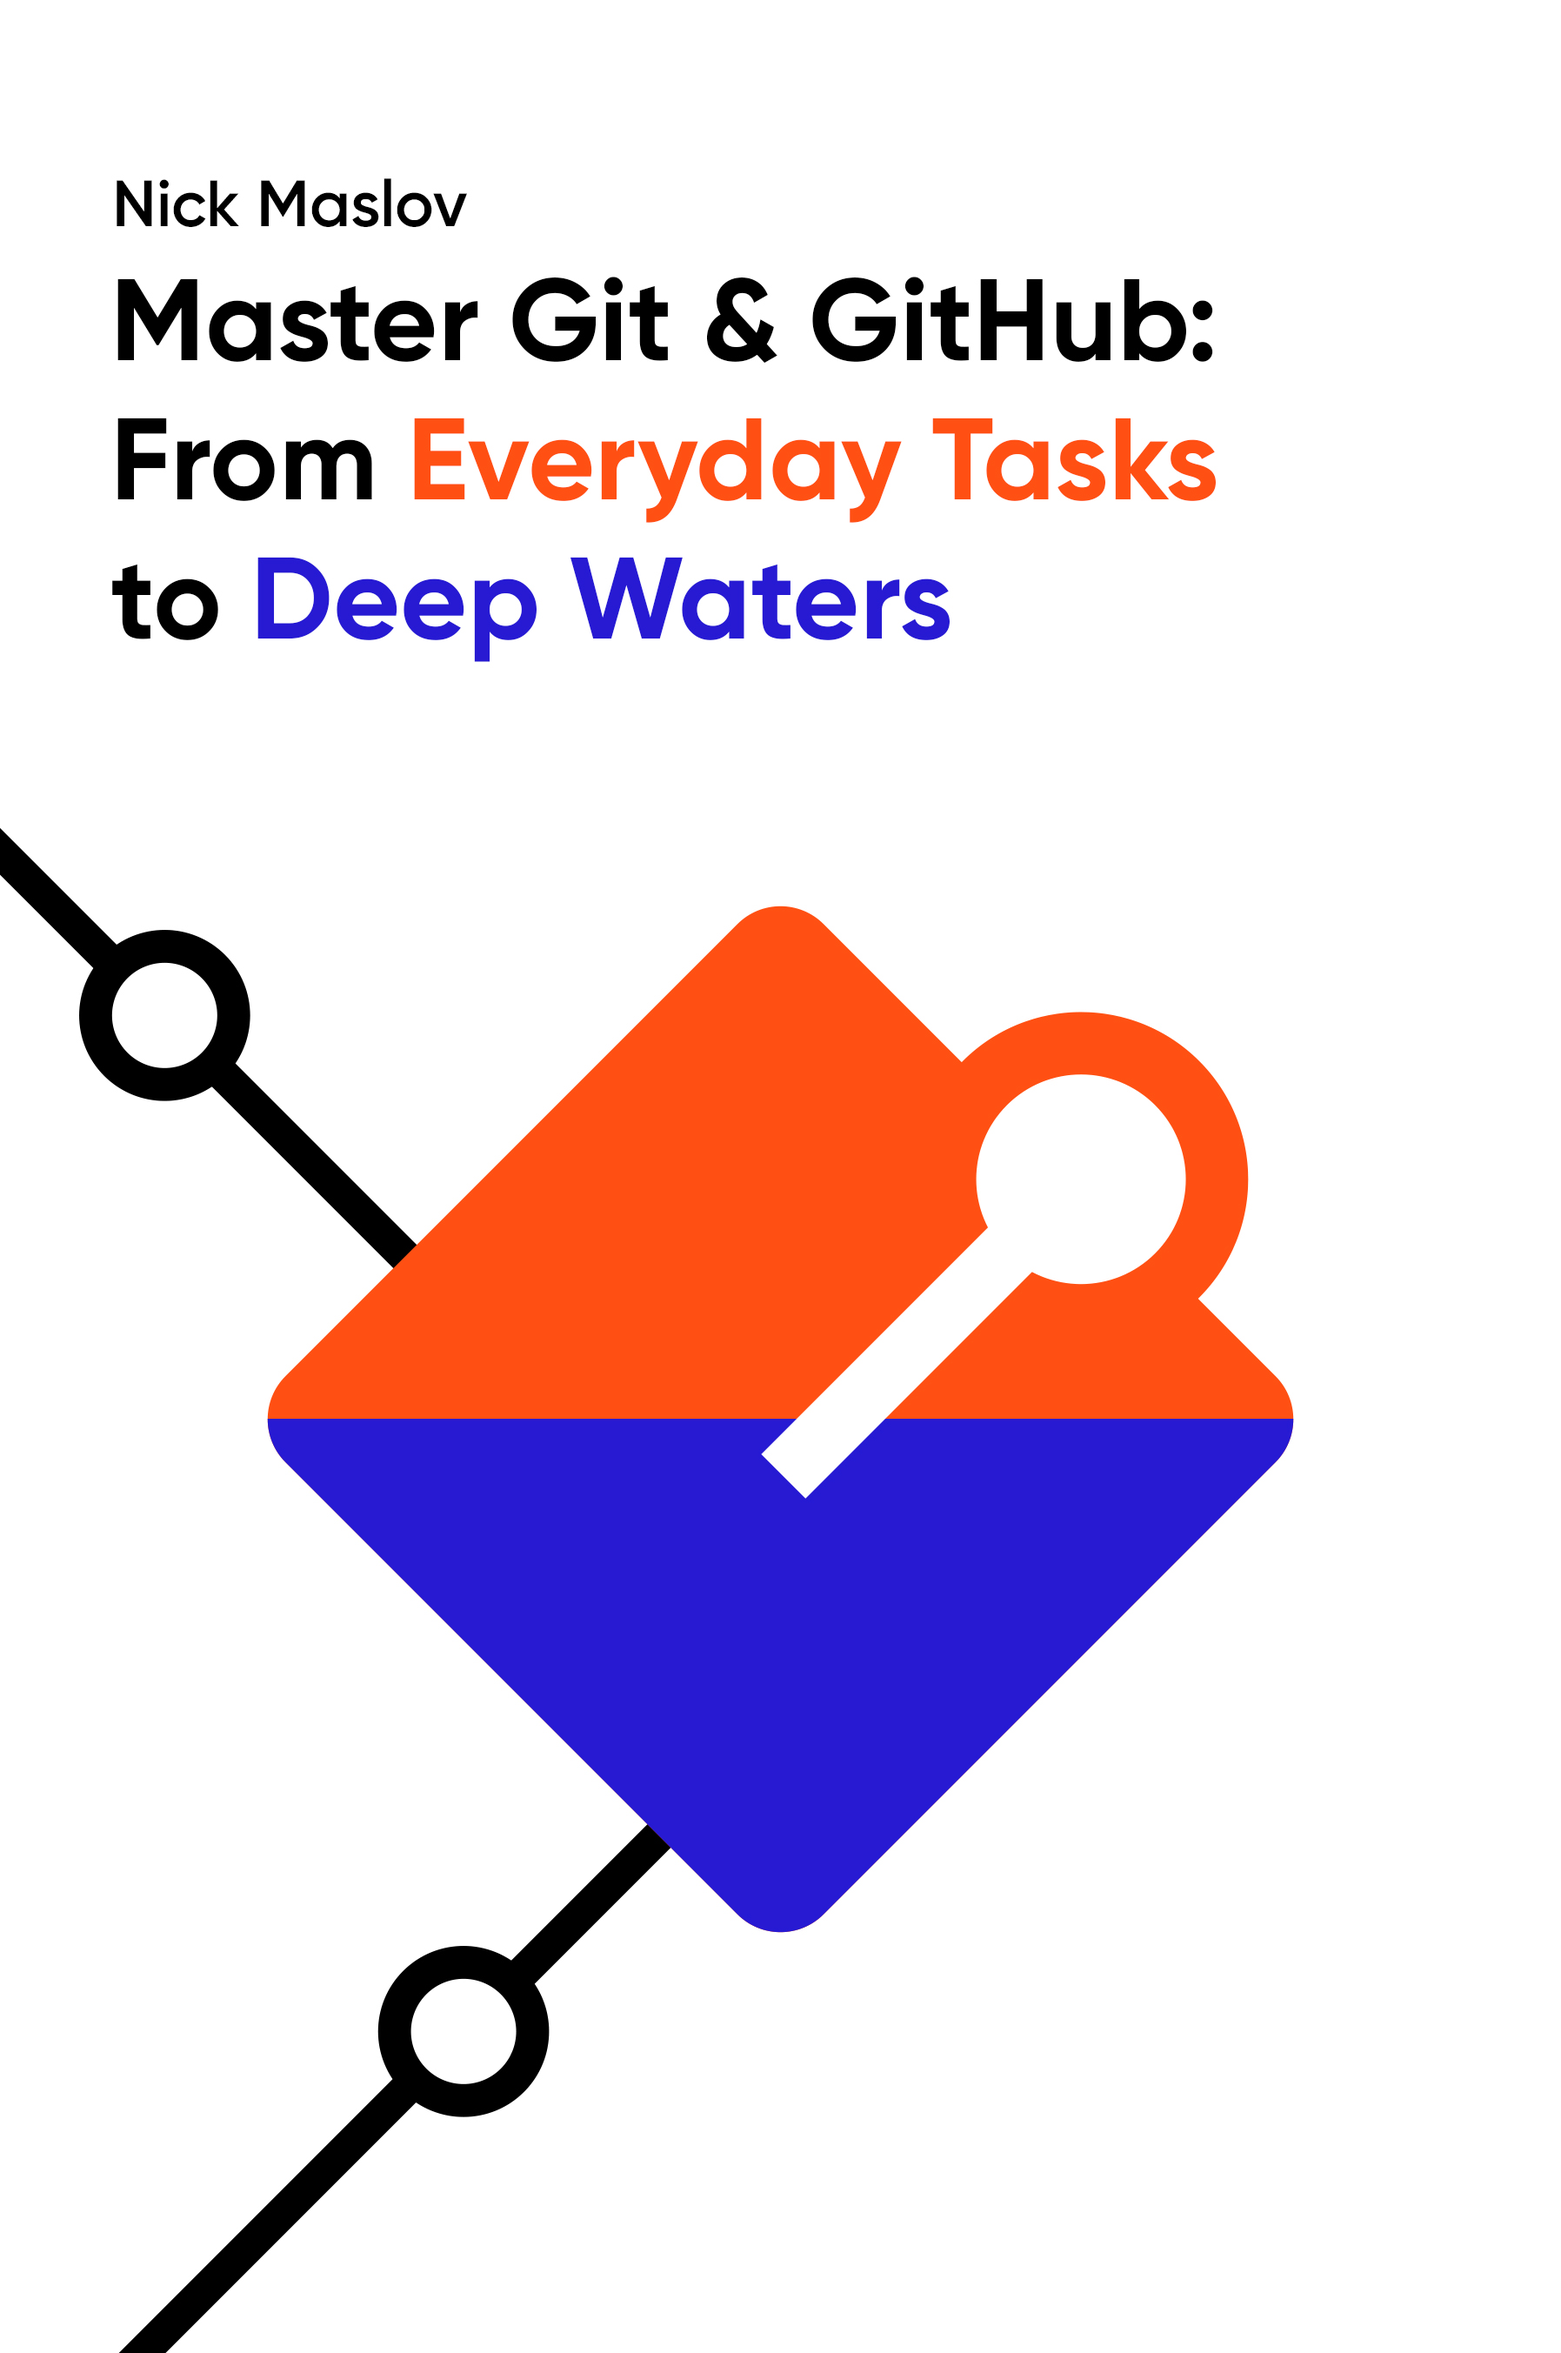
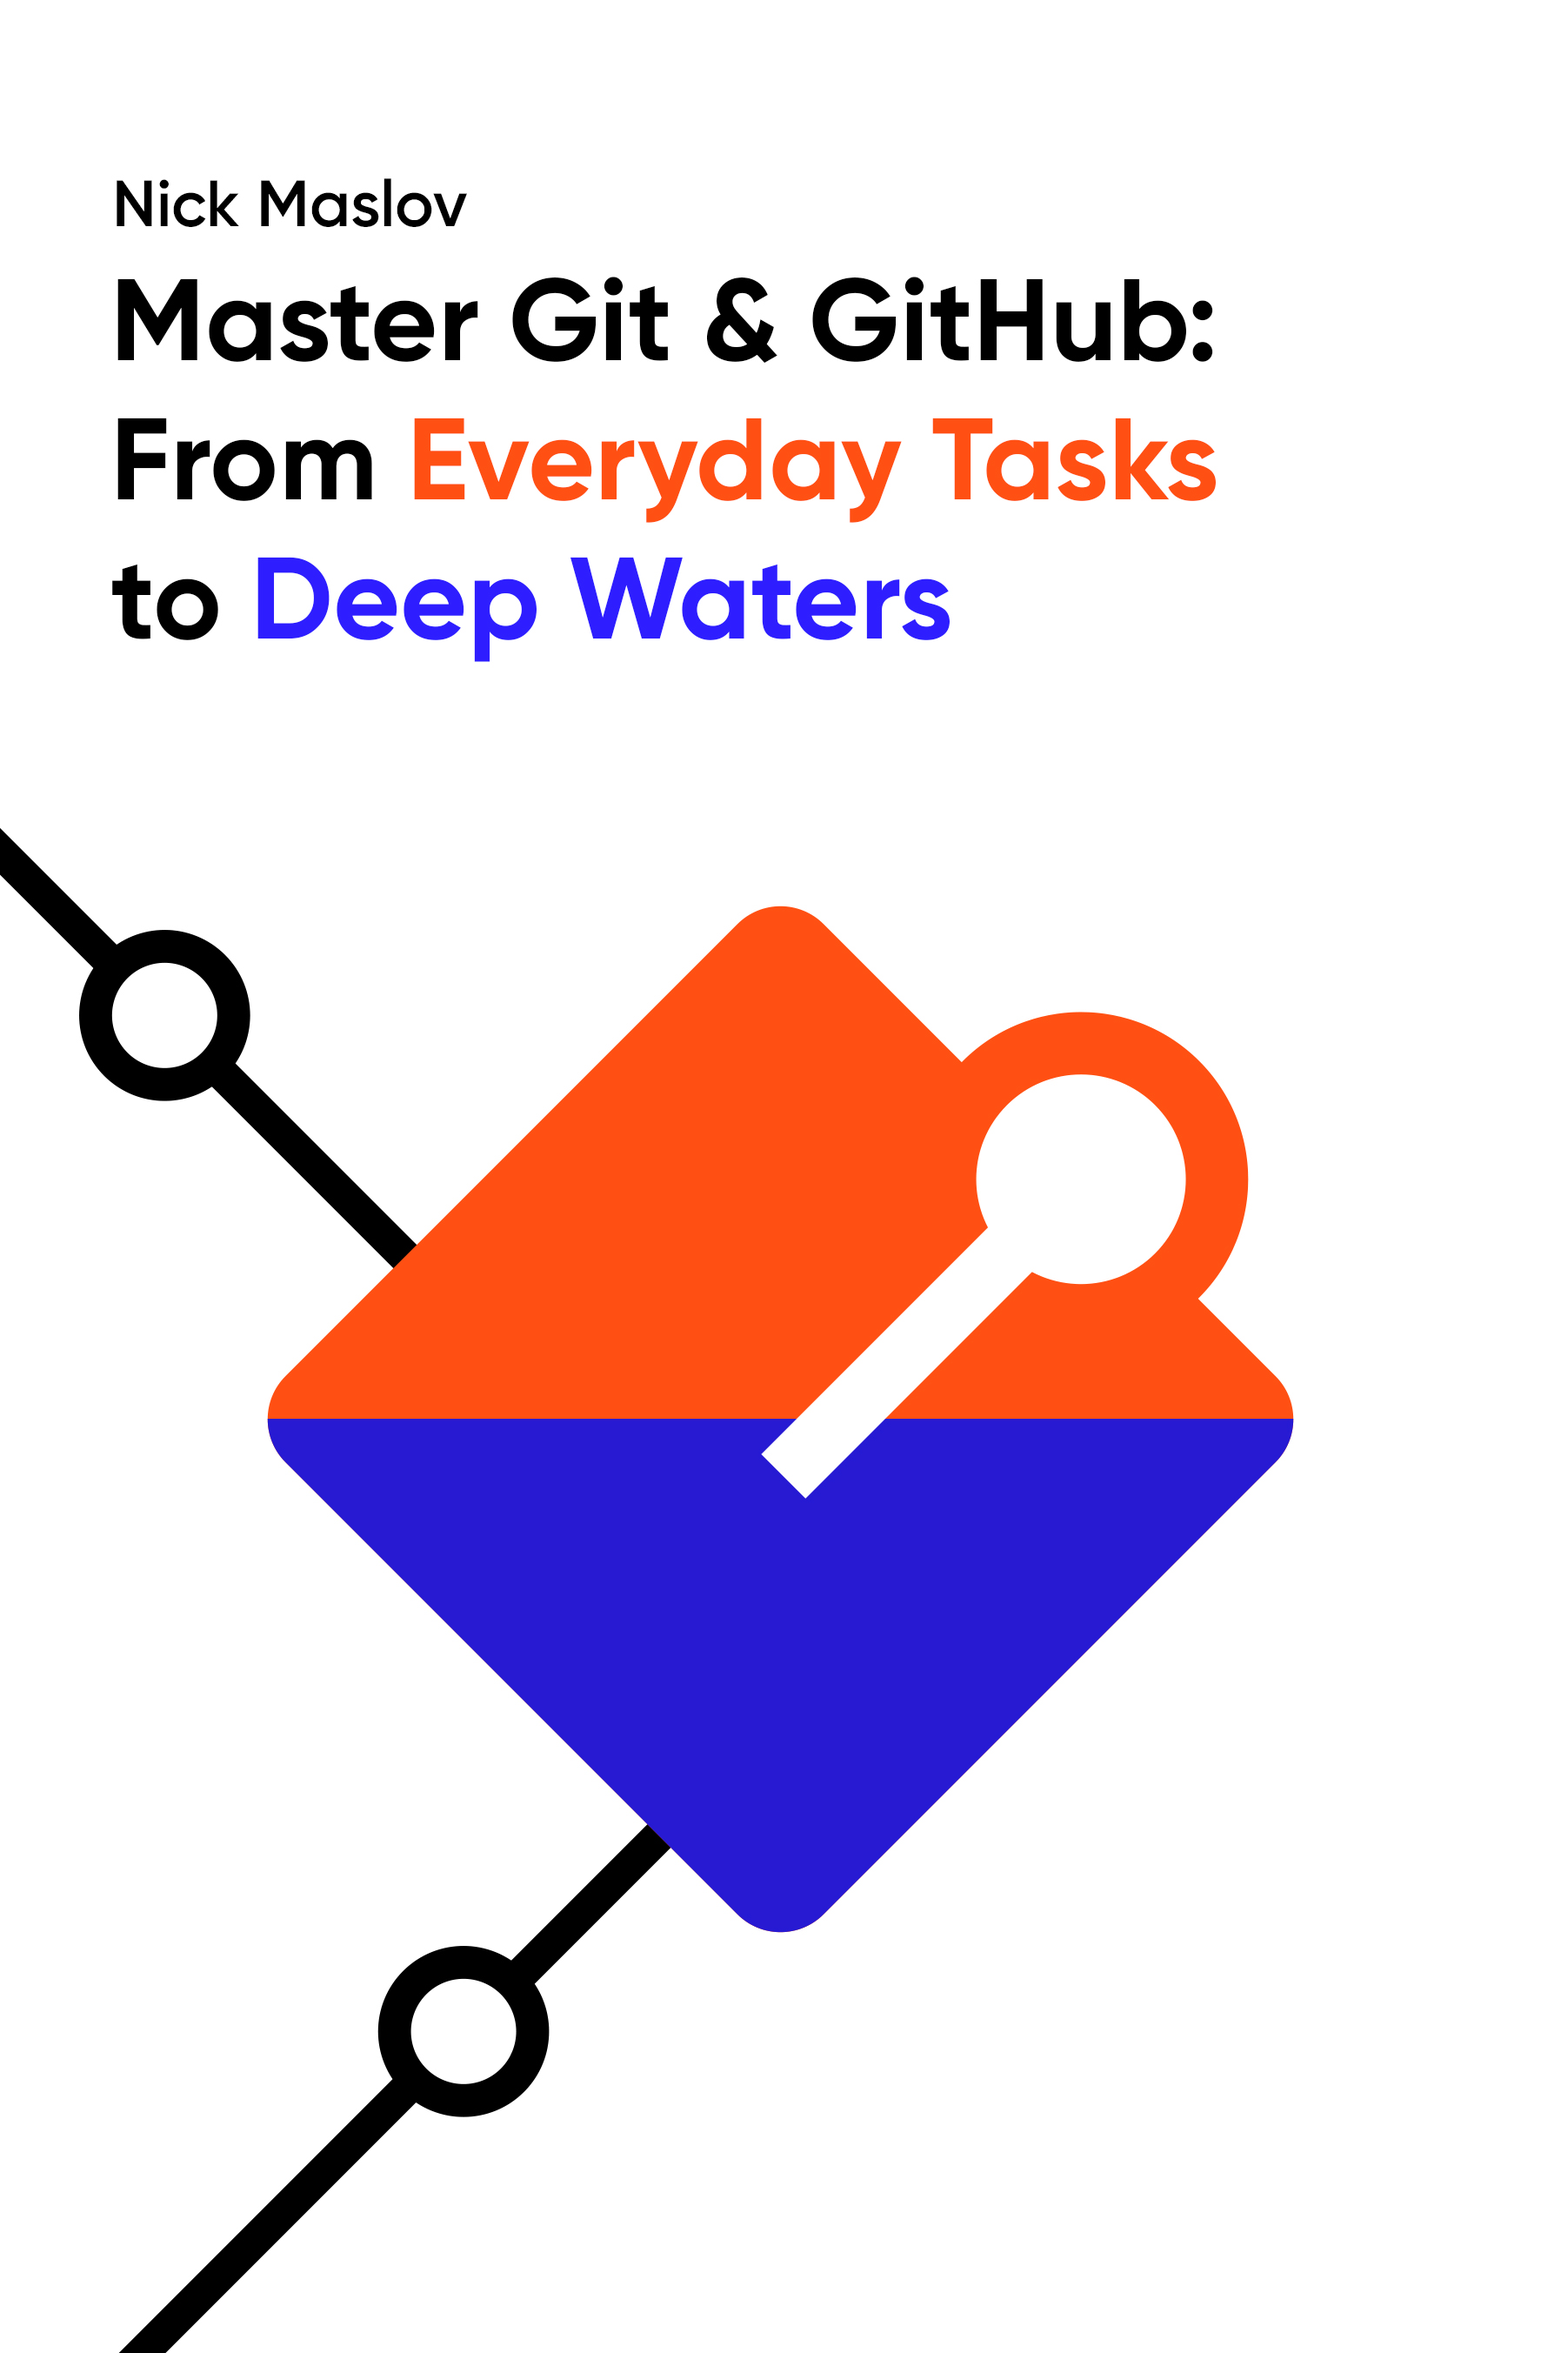
improve blue color

Changed region(s): [[0.3744, 0.2174, 0.624, 0.2795], [0.156, 0.2174, 0.3432, 0.2795]]

diff --git a/components/modules/master-git-and-github-book/pages/Page3.tsx b/components/modules/master-git-and-github-book/pages/Page3.tsx
@@ -396,7 +396,7 @@ function Page3(): ReactElement {
             toggleLettersAnimation('stop', timeline.scrollTrigger?.direction),
           '5',
         );
-        timeline.set(introSectionTextRef.current, { color: '#271AD3' }, '5');
+        timeline.set(introSectionTextRef.current, { color: '#473AFF' }, '5');
         timeline.set(
           animateLettersCommitCircleRef.current,
           { boxShadow: 'none' },
@@ -579,10 +579,10 @@ function Page3(): ReactElement {
           () => toggleSpineAnimation('stop', timeline.scrollTrigger?.direction),
           '10',
         );
-        timeline.set(introSectionTextRef.current, { color: '#271AD3' }, '10');
+        timeline.set(introSectionTextRef.current, { color: '#473AFF' }, '10');
         timeline.set(
           introSectionSpineRef.current,
-          { backgroundColor: '#271AD3' },
+          { backgroundColor: '#473AFF' },
           '10',
         );
         timeline.set(addProductsSectionCommitRef.current, { opacity: 1 }, '10');
@@ -823,7 +823,7 @@ function Page3(): ReactElement {
                     <p
                       className='absolute  bottom-[5.2vw]  left-[0.5vw]  origin-top-left   rotate-[-25deg]
                               text-xl  leading-normal  text-blue  max-md:text-[3vw]  h-md:bottom-[4.5vh]
-                              h-md:left-[0.5vh]  h-md:text-[3vh]  dark:text-[#3D32D1]'
+                              h-md:left-[0.5vh]  h-md:text-[3vh]  dark:text-[#473AFF]'
                     >
                       Initialize&nbsp;the&nbsp;project
                     </p>
@@ -841,7 +841,7 @@ function Page3(): ReactElement {
                       <p
                         className='absolute  bottom-[5.2vw]  left-[0.5vw]  origin-top-left  rotate-[-25deg]
                                 text-xl  leading-normal  text-blue  max-md:text-[3vw]
-                                h-md:bottom-[4.5vh]  h-md:left-[0.5vh]  h-md:text-[3vh]  dark:text-[#3D32D1]'
+                                h-md:bottom-[4.5vh]  h-md:left-[0.5vh]  h-md:text-[3vh]  dark:text-[#473AFF]'
                       >
                         Add&nbsp;the&nbsp;header
                       </p>
@@ -869,7 +869,7 @@ function Page3(): ReactElement {
                         className='absolute  bottom-[5.2vw]  left-[0.5vw]  origin-top-left  rotate-[-25deg]
                                 text-xl  leading-normal  text-blue  max-md:text-[3vw]
                                 h-md:bottom-[4.5vh]  h-md:left-[0.5vh]  
-                                h-md:text-[3vh]  dark:text-[#3D32D1]'
+                                h-md:text-[3vh]  dark:text-[#473AFF]'
                       >
                         Add&nbsp;the&nbsp;intro&nbsp;section
                       </p>
@@ -909,7 +909,7 @@ function Page3(): ReactElement {
                                origin-top-left  rotate-[-25deg]  text-xl
                                leading-normal  text-blue  max-md:text-[3vw]
                                h-md:bottom-[4.5vh]  h-md:left-[0.5vh]
-                               h-md:text-[3vh]  dark:text-[#3D32D1]'
+                               h-md:text-[3vh]  dark:text-[#473AFF]'
                       >
                         Add&nbsp;the&nbsp;products&nbsp;section
                       </p>
@@ -936,7 +936,7 @@ function Page3(): ReactElement {
                         className='absolute  bottom-[5.2vw]  left-[0.5vw]  origin-top-left  rotate-[-25deg]
                                text-xl  leading-normal  text-blue  max-md:text-[3vw]
                                h-md:bottom-[4.5vh]  h-md:left-[0.5vh]
-                               h-md:text-[3vh]  dark:text-[#3D32D1]'
+                               h-md:text-[3vh]  dark:text-[#473AFF]'
                       >
                         Add&nbsp;the&nbsp;footer
                       </p>
@@ -963,7 +963,7 @@ function Page3(): ReactElement {
                         className='absolute  bottom-[5.2vw]  left-[0.5vw]  origin-top-left  rotate-[-25deg]
                               text-xl  leading-normal  text-blue  max-md:text-[3vw]
                               h-md:bottom-[4.5vh]  h-md:left-[0.5vh]
-                              h-md:text-[3vh]  dark:text-[#3D32D1]'
+                              h-md:text-[3vh]  dark:text-[#473AFF]'
                       >
                         Merge
                       </p>
@@ -1252,12 +1252,12 @@ function Page3(): ReactElement {
                 className='mt-[0.55em]  flex  flex-row  items-center
                          justify-between  px-[10%]  opacity-0  transition-opacity'
               >
-                <p className='text-[0.8em]  font-bold  text-blue  dark:text-[#3D32D1]'>
+                <p className='text-[0.8em]  font-bold  text-blue  dark:text-[#473AFF]'>
                   Nikmas Studio
                 </p>
                 <div className='flex  flex-row  items-center  gap-[0.25em]'>
                   <svg
-                    className='translate-y-[-0.031em]  fill-blue  dark:fill-[#3D32D1]'
+                    className='translate-y-[-0.031em]  fill-blue  dark:fill-[#473AFF]'
                     version='1.1'
                     id='Capa_1'
                     xmlns='http://www.w3.org/2000/svg'
@@ -1320,7 +1320,7 @@ function Page3(): ReactElement {
               >
                 <p
                   ref={introSectionTextRef}
-                  className='text-[1.05em]  leading-[1.1]  text-[#3D32D1]
+                  className='text-[1.05em]  leading-[1.1]  text-[#473AFF]
                            transition-colors'
                 >
                   <SpanSplitter text='Next-gen' />
@@ -1337,7 +1337,7 @@ function Page3(): ReactElement {
                 </p>
                 <div
                   ref={introSectionSpineRef}
-                  className='h-[6.7em]  w-[0.65em]  rounded-[0.18em]  bg-[#3D32D1]
+                  className='h-[6.7em]  w-[0.65em]  rounded-[0.18em]  bg-[#473AFF]
                            transition-colors'
                 ></div>
               </div>
@@ -1349,7 +1349,7 @@ function Page3(): ReactElement {
               >
                 <p
                   className='mb-[0.5em]  text-[0.8em]  font-bold  text-blue
-                            dark:text-[#3D32D1]'
+                            dark:text-[#473AFF]'
                 >
                   Our first book
                 </p>
@@ -1386,13 +1386,13 @@ function Page3(): ReactElement {
                 <div>
                   <p
                     className='mb-[0.6em]  text-[0.42em]  text-blue  
-                            dark:text-[#3D32D1]'
+                            dark:text-[#473AFF]'
                   >
                     © Nikmas Studio, 2024
                   </p>
                   <ul
                     className='flex  flex-col  gap-[0.05em]  text-blue  
-                             dark:text-[#3D32D1]'
+                             dark:text-[#473AFF]'
                   >
                     <li className='text-[0.3em]'>Terms and conditions</li>
                     <li className='text-[0.3em]'>Privacy policy</li>
@@ -1429,7 +1429,7 @@ function Page3(): ReactElement {
                     L
                   </div>
                 </div>
-                <div className='text-[0.42em]  text-blue  dark:text-[#3D32D1]'>
+                <div className='text-[0.42em]  text-blue  dark:text-[#473AFF]'>
                   <p className='leading-tight'>
                     For questions <br /> and suggestions:
                   </p>
@@ -1576,7 +1576,7 @@ function Page3(): ReactElement {
                   ></div>
                   <p
                     className='text-xl  leading-tight  text-blue  max-md:text-[3vw]
-                              h-md:text-[3vh]  dark:text-[#3D32D1]'
+                              h-md:text-[3vh]  dark:text-[#473AFF]'
                   >
                     Main branch
                   </p>

diff --git a/tailwind.config.ts b/tailwind.config.ts
@@ -33,7 +33,7 @@ const config: Config = {
         'git-black': '#00040A',
         'git-white': '#e3e3e3',
         orange: '#ff5013',
-        blue: '#271ad3',
+        blue: '#2e1eff',
         'git-dark-blue': '#09132a',
         subscription: '#29AD04',
         'subscription-darker': '#248F04',
